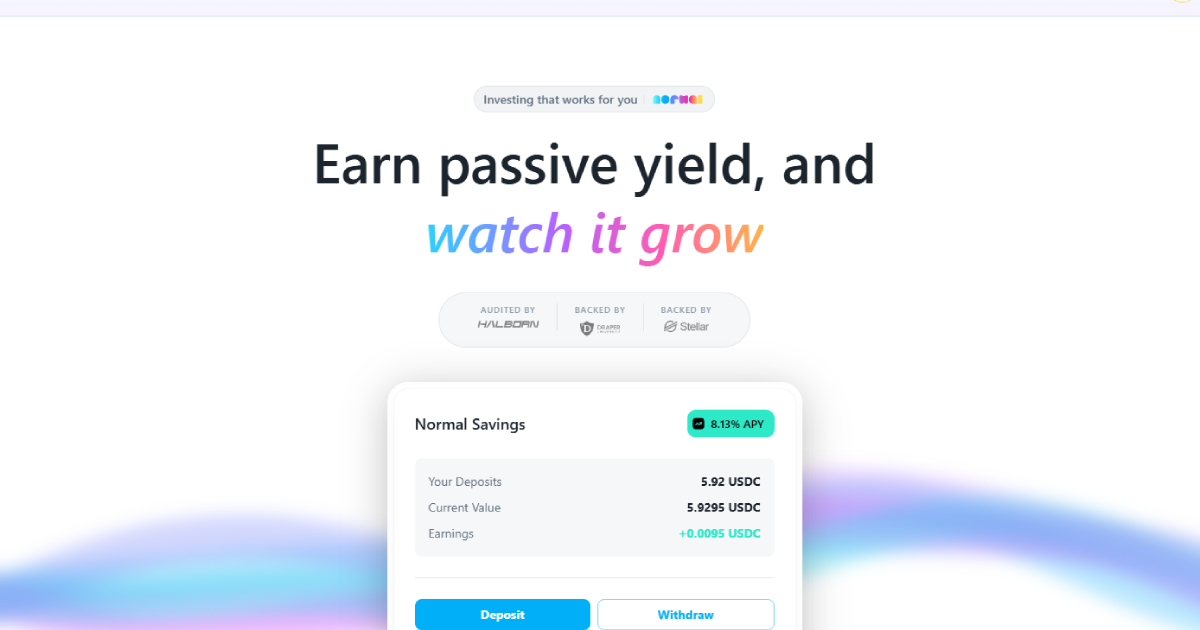
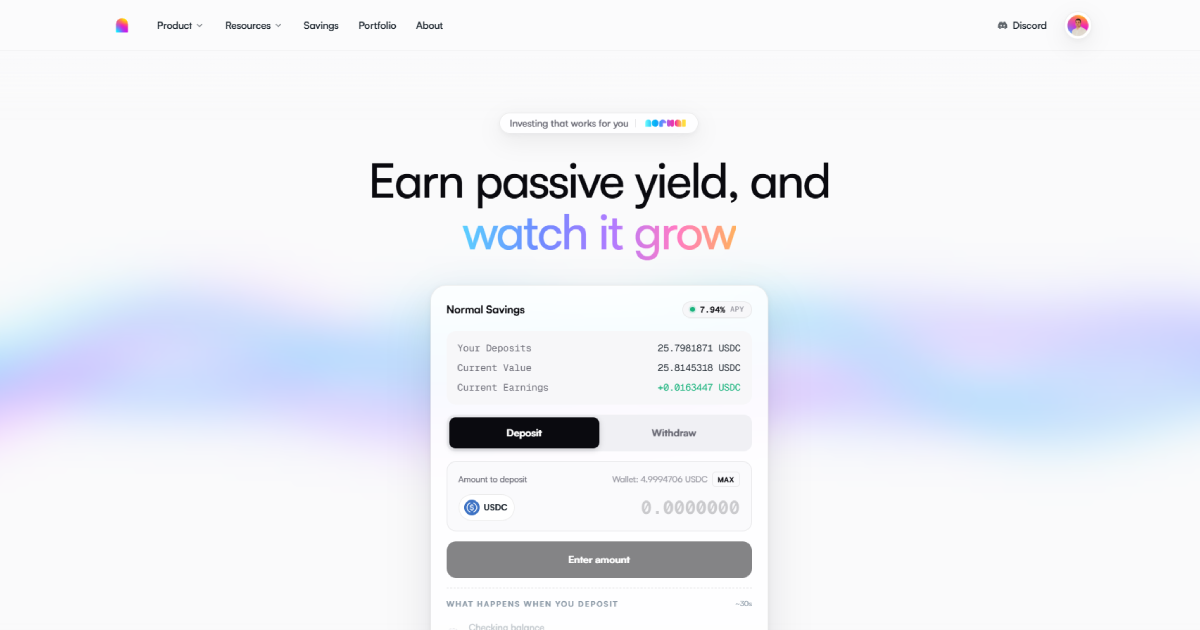
SEO

diff --git a/packages/web/src/app/portfolio/page.tsx b/packages/web/src/app/portfolio/page.tsx
@@ -10,18 +10,18 @@ export const metadata: Metadata = {
     default: 'Portfolio | Normal',
     template: '%s · Normal',
   },
-  description: 'View and manage your asset and index fund portfolio on Normal.',
+  description: 'View your wallet balances, savings position, and earnings all in one place on Normal.',
   alternates: {
     canonical: '/invest',
   },
   openGraph: {
     title: 'Portfolio | Normal',
-    description: 'View and manage your asset and index fund portfolio on Normal.',
+    description: 'View your wallet balances, savings position, and earnings all in one place on Normal.',
     url: `${CONFIG.siteUrl}/invest`,
     siteName: 'Normal',
     images: [
       {
-        url: '/og/home.png', // replace with image you want to show when sharing link on other socials than twitter
+        url: '/og/portfolio.png',
         width: 1200,
         height: 630,
         alt: 'Normal Portfolio overview',
@@ -33,15 +33,15 @@ export const metadata: Metadata = {
   twitter: {
     card: 'summary_large_image',
     title: 'Portfolio | Normal',
-    description: 'View and manage your asset and index fund portfolio on Normal.',
-    images: ['/og/home.png'], // replace with image you want to show when sharing link on Twitter
+    description: 'View your wallet balances, savings position, and earnings all in one place on Normal.',
+    images: ['/og/portfolio.png'],
   },
   robots: {
     index: true,
     follow: true,
     googleBot: { index: true, follow: true },
   },
-  keywords: ['Normal', 'Normal Finance', 'token swap', 'crypto exchange', 'DEX'],
+  keywords: ['Normal', 'Normal Finance', 'portfolio', 'USDC savings', 'crypto wallet', 'Stellar'],
 };
 
 export default function Page() {

diff --git a/packages/web/src/app/page.tsx b/packages/web/src/app/page.tsx
@@ -9,14 +9,14 @@ export const metadata: Metadata = {
     template: '%s · Normal',
   },
   description:
-    'Normal helps you invest or diversify any global asset in seconds with low fees and deep liquidity.',
+    'Normal gives your USDC a job. Earn real yield through self-custody savings powered by DeFindex and Blend on Stellar.',
   alternates: {
     canonical: '/',
   },
   openGraph: {
     title: 'Home | Normal',
     description:
-      'Normal helps you invest or diversify any global asset in seconds with low fees and deep liquidity.',
+      'Normal gives your USDC a job. Earn real yield through self-custody savings powered by DeFindex and Blend on Stellar.',
     url: CONFIG.siteUrl,
     siteName: 'Normal',
     images: [
@@ -34,7 +34,7 @@ export const metadata: Metadata = {
     card: 'summary_large_image',
     title: 'Home | Normal',
     description:
-      'Normal helps you invest or diversify any global asset in seconds with low fees and deep liquidity.',
+      'Normal gives your USDC a job. Earn real yield through self-custody savings powered by DeFindex and Blend on Stellar.',
     images: ['/og/home.png'],
   },
   robots: {
@@ -42,7 +42,7 @@ export const metadata: Metadata = {
     follow: true,
     googleBot: { index: true, follow: true },
   },
-  keywords: ['Normal', 'Normal Finance', 'crypto index', 'crypto investing', 'web3 portfolio'],
+  keywords: ['Normal', 'Normal Finance', 'USDC yield', 'crypto savings', 'DeFi', 'Stellar', 'Blend'],
 };
 
 export default function Page() {

diff --git a/packages/web/src/app/roadmap/page.tsx b/packages/web/src/app/roadmap/page.tsx
@@ -11,14 +11,14 @@ export const metadata: Metadata = {
     template: '%s · Normal',
   },
   description:
-    'Explore the Normal roadmap – upcoming features, milestones, and our vision for the future of on-chain index funds.',
+    'Explore the Normal roadmap – upcoming features, milestones, and our vision for the future of self-custody savings on Stellar.',
   alternates: {
     canonical: '/roadmap',
   },
   openGraph: {
     title: 'Roadmap | Normal',
     description:
-      'Explore the Normal roadmap – upcoming features, milestones, and our vision for the future of on-chain index funds.',
+      'Explore the Normal roadmap – upcoming features, milestones, and our vision for the future of self-custody savings on Stellar.',
     url: `${CONFIG.siteUrl}/roadmap`,
     siteName: 'Normal',
     images: [
@@ -36,7 +36,7 @@ export const metadata: Metadata = {
     card: 'summary_large_image',
     title: 'Roadmap | Normal',
     description:
-      'See what’s next on the Normal roadmap – new features, DeFi integrations, and index fund improvements.',
+      "See what’s next on the Normal roadmap – new features, DeFi integrations, and savings yield improvements.",
     images: ['/og/home.png'],
   },
   robots: {
@@ -50,7 +50,7 @@ export const metadata: Metadata = {
     'roadmap',
     'crypto roadmap',
     'DeFi roadmap',
-    'on-chain index funds',
+    'on-chain savings yield',
   ],
 };
 export default function Page() {

diff --git a/packages/web/src/app/contact/page.tsx b/packages/web/src/app/contact/page.tsx
@@ -19,7 +19,7 @@ export const metadata: Metadata = {
     siteName: 'Normal',
     images: [
       {
-        url: '/og/home.png',
+        url: '/og/contact.png',
         width: 1200,
         height: 630,
         alt: 'Normal – Contact',
@@ -32,7 +32,7 @@ export const metadata: Metadata = {
     card: 'summary_large_image',
     title: 'Contact | Normal',
     description: 'Reach out to the Normal team for questions, support, or partnership inquiries.',
-    images: ['/og/home.png'],
+    images: ['/og/contact.png'],
   },
   robots: {
     index: true,

diff --git a/packages/web/src/app/about/page.tsx b/packages/web/src/app/about/page.tsx
@@ -21,7 +21,7 @@ export const metadata: Metadata = {
     siteName: 'Normal',
     images: [
       {
-        url: '/og/home.png',
+        url: '/og/about.png',
         width: 1200,
         height: 630,
         alt: 'Normal – About Us',
@@ -34,7 +34,7 @@ export const metadata: Metadata = {
     card: 'summary_large_image',
     title: 'About Us | Normal',
     description: 'Get to know the people, mission, and values driving Normal.',
-    images: ['/og/home.png'],
+    images: ['/og/about.png'],
   },
   robots: {
     index: true,

diff --git a/packages/web/src/app/savings/page.tsx b/packages/web/src/app/savings/page.tsx
@@ -21,7 +21,7 @@ export const metadata: Metadata = {
     siteName: 'Normal',
     images: [
       {
-        url: '/og/home.png',
+        url: '/og/savings.png',
         width: 1200,
         height: 630,
         alt: 'Normal Savings',
@@ -34,7 +34,7 @@ export const metadata: Metadata = {
     card: 'summary_large_image',
     title: 'Savings | Normal',
     description: 'Earn yield on your USDC savings with Normal.',
-    images: ['/og/home.png'],
+    images: ['/og/savings.png'],
   },
   robots: {
     index: true,

diff --git a/packages/web/src/app/layout.tsx b/packages/web/src/app/layout.tsx
@@ -40,8 +40,8 @@ export const metadata: Metadata = {
     default: 'Normal',
     template: '%s · Normal',
   },
-  description: 'Invest in diversified crypto indices and synthetic assets with Normal.',
-  keywords: 'crypto, investing, crypto index, defi',
+  description: 'Earn yield on your USDC with Normal — self-custody savings powered by DeFindex and Blend on Stellar.',
+  keywords: 'crypto savings, USDC yield, DeFi, Stellar, Blend, DeFindex, Normal Finance',
   openGraph: {
     siteName: 'Normal',
     images: [

diff --git a/packages/web/src/app/swap/page.tsx b/packages/web/src/app/swap/page.tsx
@@ -21,7 +21,7 @@ export const metadata: Metadata = {
     siteName: 'Normal',
     images: [
       {
-        url: '/og/home.png',
+        url: '/og/swap.png',
         width: 1200,
         height: 630,
         alt: 'Normal Swap',
@@ -34,7 +34,7 @@ export const metadata: Metadata = {
     card: 'summary_large_image',
     title: 'Swap | Normal',
     description: 'Swap XLM and USDC instantly on Normal.',
-    images: ['/og/home.png'],
+    images: ['/og/swap.png'],
   },
   robots: {
     index: true,

diff --git a/packages/web/src/app/assets/page.tsx b/packages/web/src/app/assets/page.tsx
@@ -41,7 +41,7 @@ export const metadata: Metadata = {
     follow: true,
     googleBot: { index: true, follow: true },
   },
-  keywords: ['Normal', 'Normal Finance', 'crypto index', 'crypto investing', 'web3 portfolio'],
+  keywords: ['Normal', 'Normal Finance', 'crypto assets', 'USDC', 'Stellar', 'DeFi'],
 };
 
 export default function Page() {

diff --git a/packages/web/src/app/blocked/page.tsx b/packages/web/src/app/blocked/page.tsx
@@ -39,7 +39,7 @@ export const metadata: Metadata = {
     follow: true,
     googleBot: { index: true, follow: true },
   },
-  keywords: ['Normal', 'Normal Finance', 'crypto index', 'crypto investing', 'web3 portfolio'],
+  keywords: ['Normal', 'Normal Finance', 'crypto savings', 'USDC yield', 'Stellar'],
 };
 
 export default function Page() {
